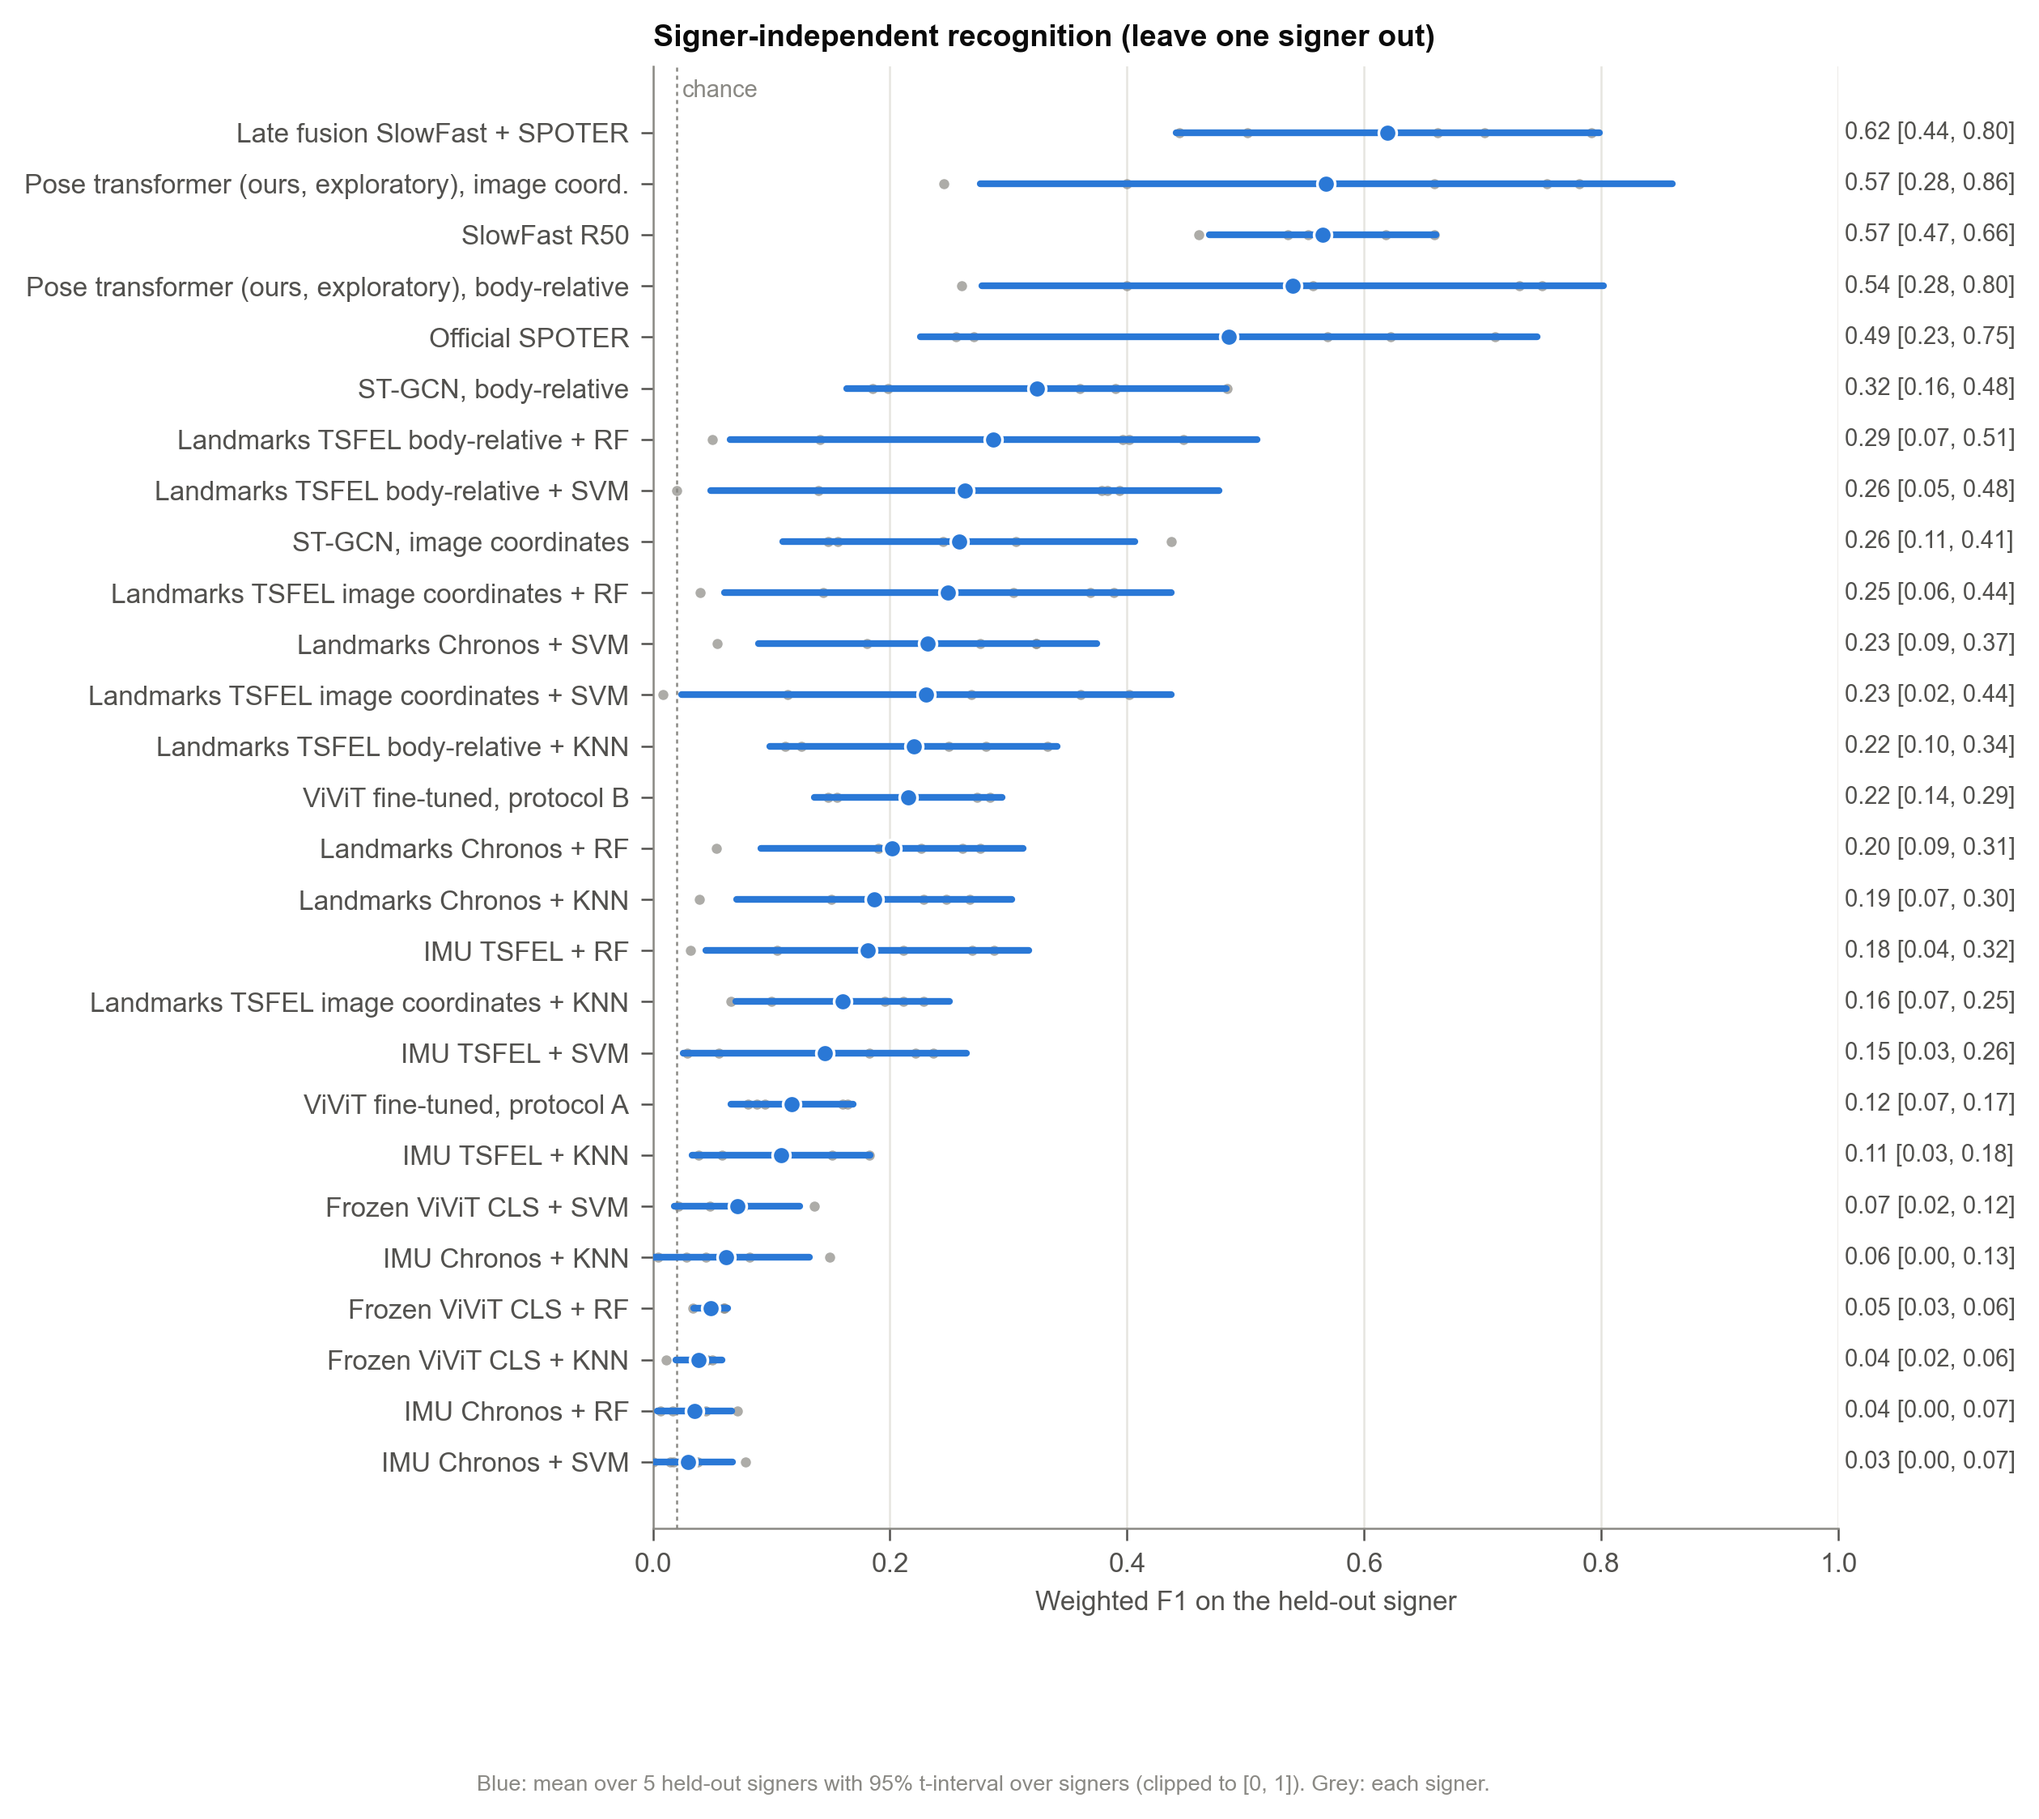
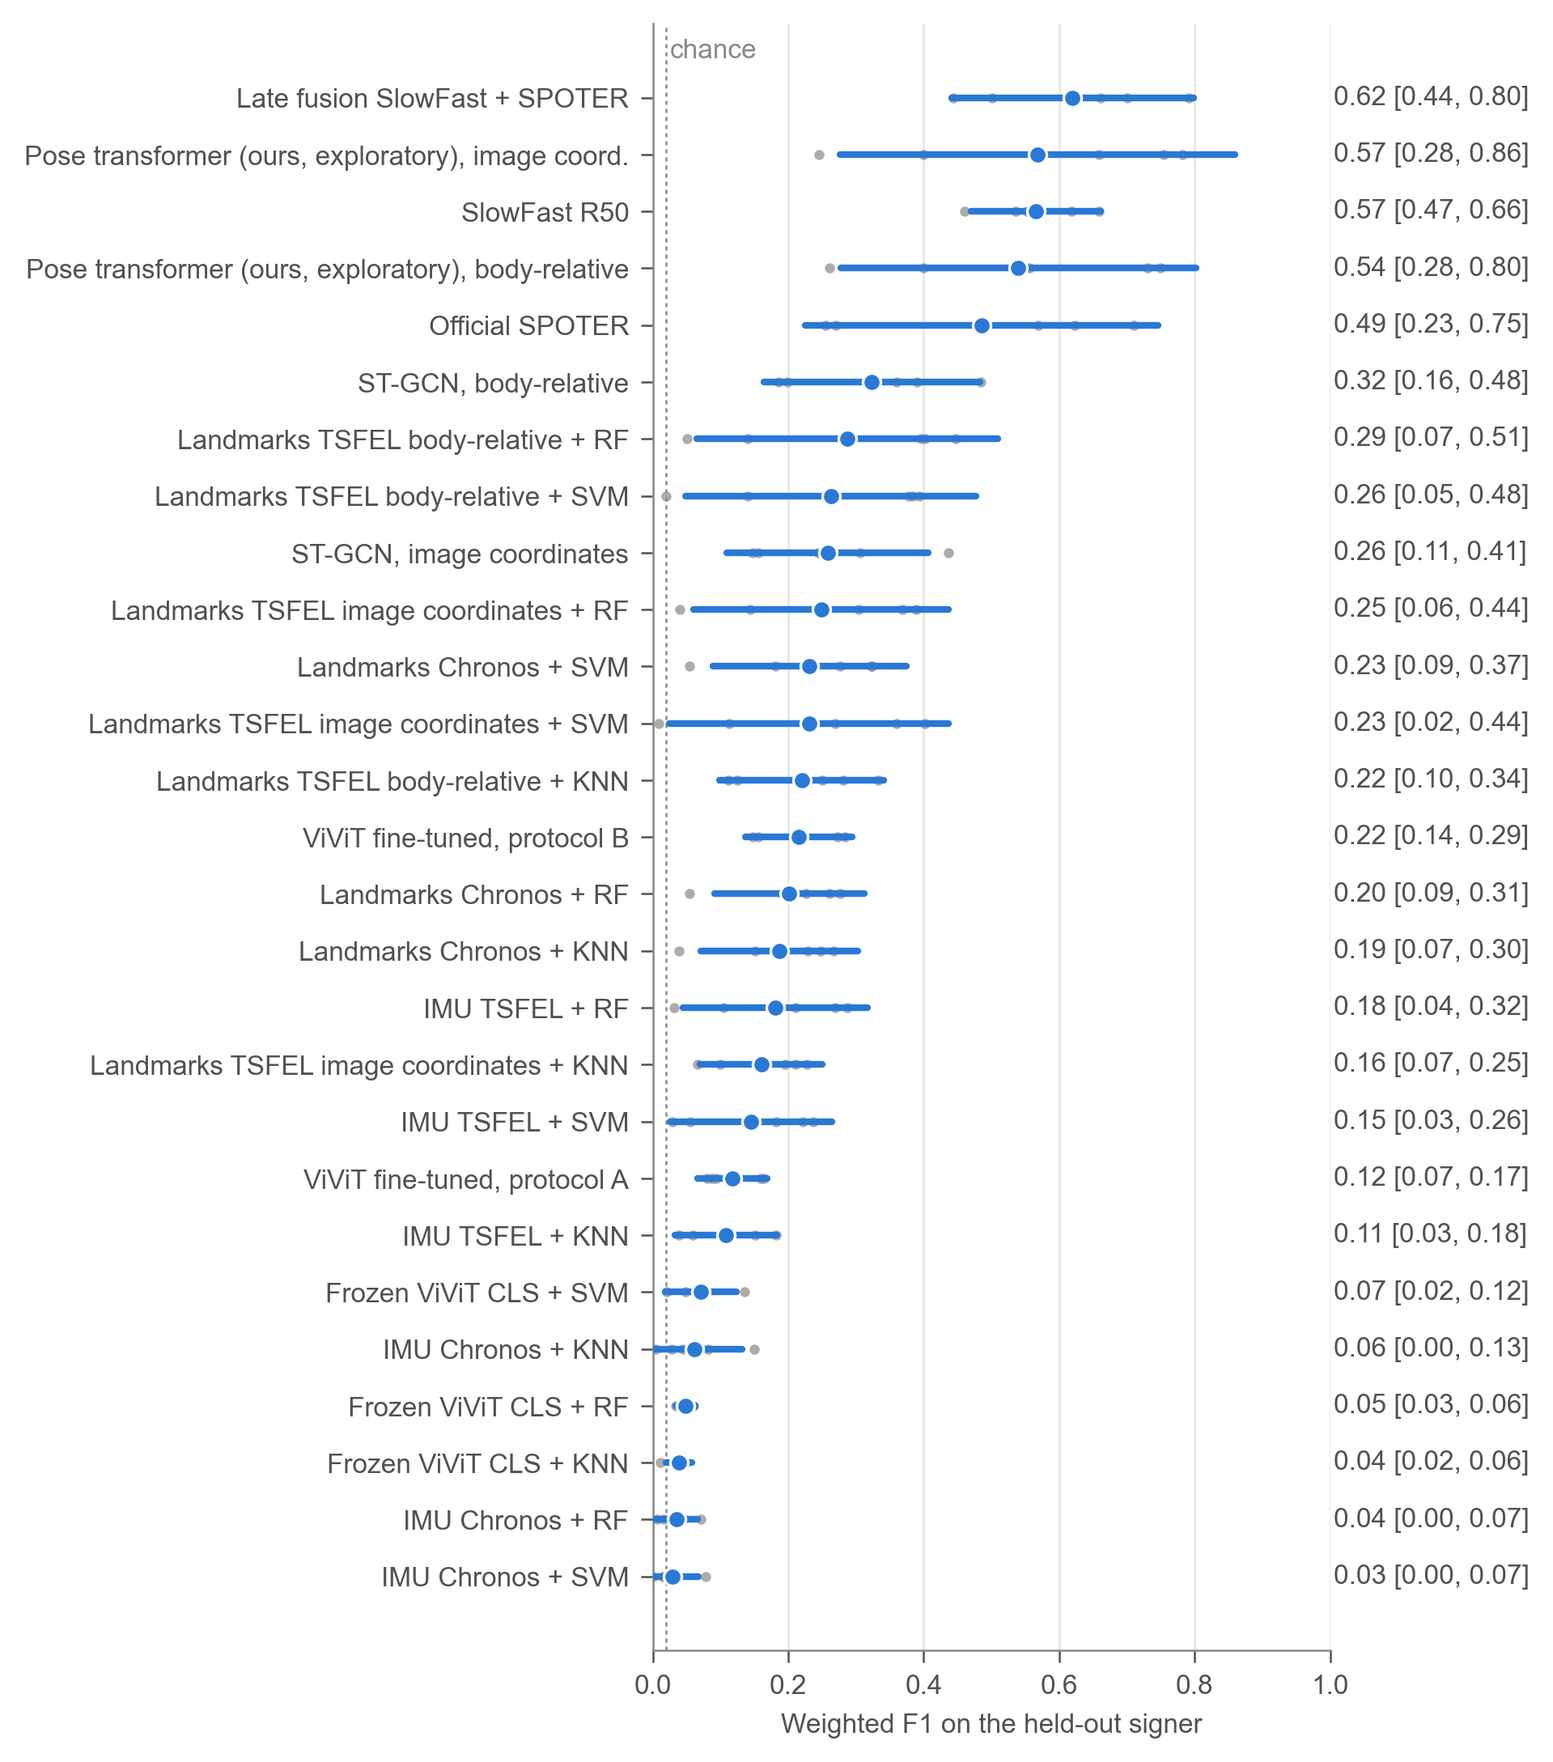
Figures to PLOS figure guidelines: no title or footnote inside the files, text >= 8 pt, Fig 2 sized to print unscaled (values unchanged)

diff --git a/scripts/revision/make_figures.py b/scripts/revision/make_figures.py
@@ -69,7 +69,7 @@ def grid_x(ax) -> None:
 
 def fig_loso_models(ci: pd.DataFrame, out: str) -> None:
     d = ci[~ci.model.isin(HELPER_ROWS)].sort_values("mean_f1")
-    fig, ax = plt.subplots(figsize=(6.3, 0.26 * len(d) + 0.8))
+    fig, ax = plt.subplots(figsize=(3.6, 0.3 * len(d) + 0.6))
     y = np.arange(len(d))
     for i, (_, r) in enumerate(d.iterrows()):
         pts = [r[f"V{s}"] for s in range(1, 6)]
@@ -77,16 +77,13 @@ def fig_loso_models(ci: pd.DataFrame, out: str) -> None:
         ax.plot([r.ci_t_low, r.ci_t_high], [i, i], color=BLUE, linewidth=2, solid_capstyle="round", zorder=3)
         ax.scatter([r.mean_f1], [i], s=28, color=BLUE, edgecolors="white", linewidths=0.8, zorder=4)
         ax.text(1.005, i, f"{r.mean_f1:.2f} [{max(r.ci_t_low, 0):.2f}, {min(r.ci_t_high, 1):.2f}]", transform=ax.get_yaxis_transform(),
-                va="center", ha="left", color=INK2, fontsize=7)
+                va="center", ha="left", color=INK2, fontsize=8)
     ax.set_yticks(y, [LABELS.get(m, m) for m in d.model])
     ax.set_xlim(0, 1)
     ax.axvline(0.02, color=MUTED, linewidth=0.6, linestyle=(0, (2, 2)))
-    ax.text(0.025, len(d) - 0.4, "chance", color=MUTED, fontsize=7, va="bottom")
+    ax.text(0.025, len(d) - 0.4, "chance", color=MUTED, fontsize=8, va="bottom")
     ax.set_xlabel("Weighted F1 on the held-out signer")
-    ax.set_title("Signer-independent recognition (leave one signer out)")
     grid_x(ax)
-    fig.text(0.01, -0.02, "Blue: mean over 5 held-out signers with 95% t-interval over signers (clipped to [0, 1]). Grey: each signer.",
-             color=MUTED, fontsize=6.5, va="top")
     save(fig, out, "fig_loso_models")
 
 
@@ -99,12 +96,11 @@ def fig_loso_per_signer(ci: pd.DataFrame, out: str, picks: list[tuple[str, str, 
             continue
         vals = [r.iloc[0][f"V{s}"] for s in x]
         ax.plot(x, vals, color=colour, linewidth=2, marker="o", markersize=5, markeredgecolor="white", markeredgewidth=0.8)
-        ax.text(5.15, vals[-1], label, color=INK, fontsize=7, va="center")
+        ax.text(5.15, vals[-1], label, color=INK, fontsize=8, va="center")
     ax.set_xticks(x, [f"V{s}\n{GROUP[s]}" for s in x])
     ax.set_xlim(0.7, 5.1)
     ax.set_ylim(0, 1)
     ax.set_ylabel("Weighted F1 on the held-out signer")
-    ax.set_title("Per held-out signer")
     ax.grid(axis="y", color=GRID, linewidth=0.6)
     ax.set_axisbelow(True)
     save(fig, out, "fig_loso_per_signer")
@@ -119,7 +115,7 @@ def fig_dtw(path: str, out: str) -> None:
     for i in range(len(m)):
         for j in range(len(m)):
             v = m.values[i, j]
-            ax.text(j, i, f"{v:.2f}", ha="center", va="center", fontsize=7,
+            ax.text(j, i, f"{v:.2f}", ha="center", va="center", fontsize=8,
                     color="white" if v > 0.55 * m.values.max() else INK, fontweight="bold" if i == j else "normal")
     ax.set_xticks(range(len(m)), labels)
     ax.set_yticks(range(len(m)), labels)
@@ -129,7 +125,6 @@ def fig_dtw(path: str, out: str) -> None:
     cb = fig.colorbar(im, ax=ax, fraction=0.046, pad=0.04)
     cb.outline.set_visible(False)
     cb.set_label("Per-step DTW cost (lower = more similar)", color=INK2)
-    ax.set_title("Signer similarity (diagonal = own repetitions)")
     save(fig, out, "fig_dtw_matrix")
 
 
@@ -148,8 +143,6 @@ def fig_importance_pose(paths: list[tuple[str, str]], out: str) -> None:
         ax.set_xlabel("Drop in weighted F1 when permuted")
         ax.set_title(title)
         grid_x(ax)
-    fig.text(0.01, -0.06, "Bars: mean over the 5 held-out signers; dots: each signer. Hands as labelled by MediaPipe.",
-             color=MUTED, fontsize=6.5)
     fig.tight_layout()
     save(fig, out, "fig_importance_pose")
 
@@ -171,8 +164,6 @@ def fig_importance(path: str, out: str) -> None:
         ax.set_xlabel("Drop in weighted F1 when permuted")
         ax.set_title(title)
         grid_x(ax)
-    fig.text(0.01, -0.04, "Bars: mean over the 5 held-out signers; dots: each signer. Random Forest, body-relative landmarks.",
-             color=MUTED, fontsize=6.5)
     fig.tight_layout()
     save(fig, out, "fig_importance")
 

diff --git a/scripts/revision/landmark_figures/fig_headtilt_landmarks_v2.py b/scripts/revision/landmark_figures/fig_headtilt_landmarks_v2.py
@@ -110,7 +110,7 @@ for ax, (L, lab, subjects) in zip(axes, PANELS):
             va="center", fontsize=10, color=INK, fontweight="bold", zorder=6)
     ax.set_title(f"$\\bf{{{L}}}$   {lab}", loc="left", fontsize=10, color=INK, pad=4)
     ax.text(0.0, 0.0, f"Head tilt {abs(head[peak] - head[0]):.0f}°, shoulder line {abs(sh[peak] - sh[0]):.0f}°",
-            transform=ax.transAxes, fontsize=7.5, color=INK2, va="bottom")
+            transform=ax.transAxes, fontsize=8, color=INK2, va="bottom")
     ax.set_aspect("equal"); ax.axis("off")
     ax.set_xlim(-1.45, 1.45); ax.set_ylim(-1.75, 1.15)
 
